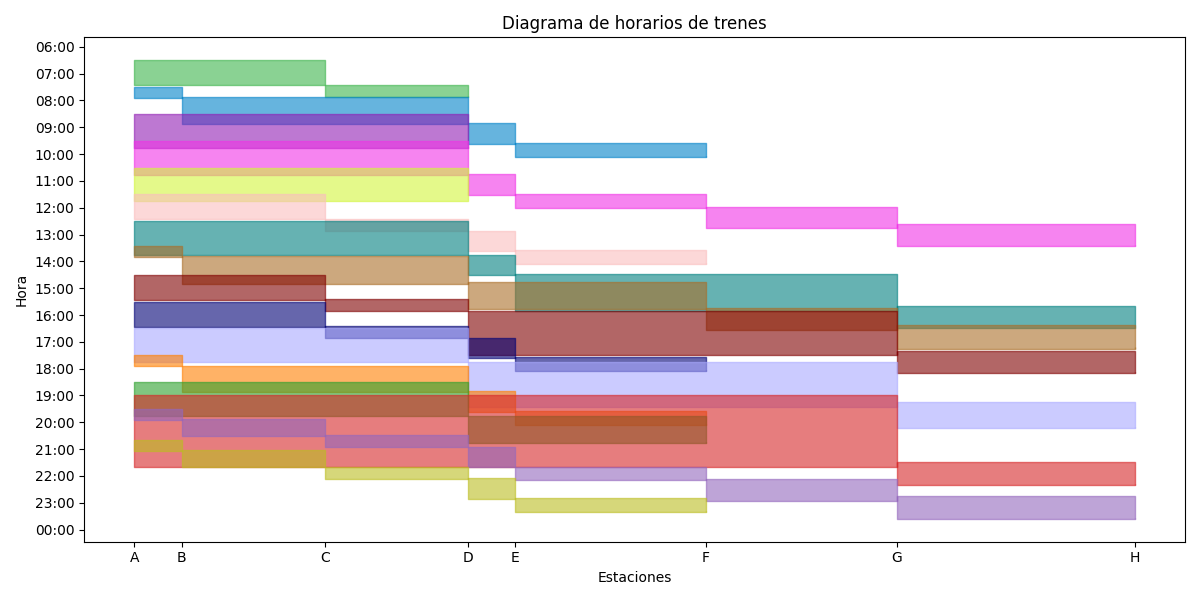
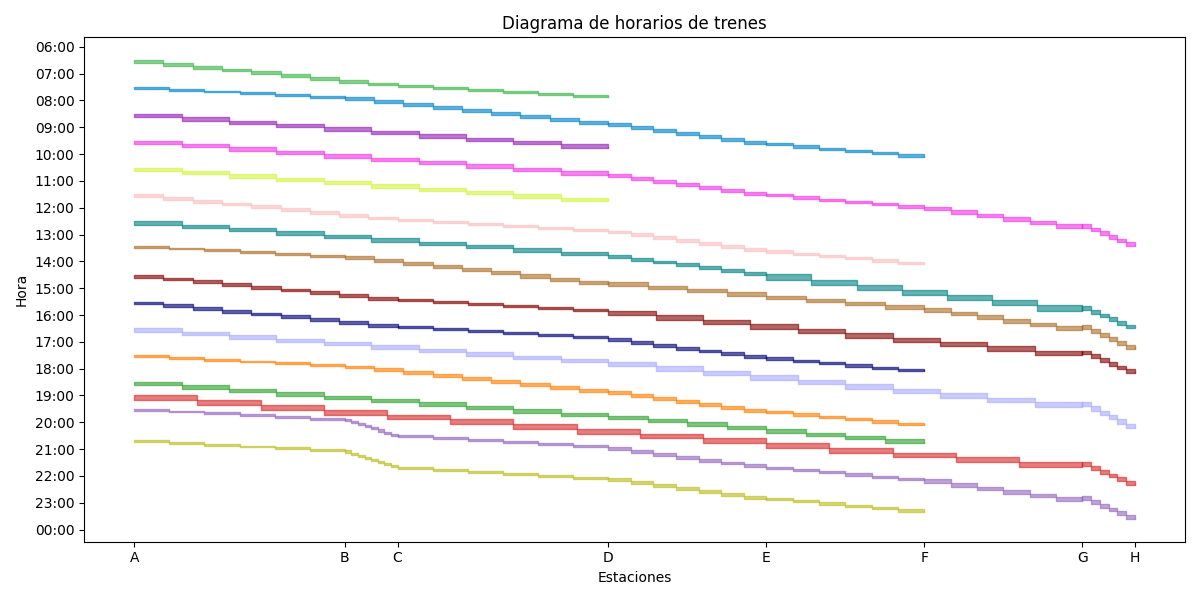
0.5c
Introduce la segmentación basada en cantones en los diagramas de horarios actualizando generateDiagram para admitir subtramos temporales por cantón. Importaciones de refactores y manejo de rutas en settings.py para un mejor acceso al módulo src. Actualiza readYamlFiles y simLibrary para utilizar las nuevas opciones de generación de diagramas. Limpia las variables no utilizadas y mejora la estructura del código en cantonCalculator y generateDiagram.

diff --git a/src/generateDiagram.py b/src/generateDiagram.py
@@ -1,124 +1,105 @@
+# generateDiagram.py
 from src import dbLibrary as dbl
 import matplotlib
-
-# Usar backend 'Agg' para generar imágenes sin entorno gráfico
 matplotlib.use('Agg')
-
 import matplotlib.pyplot as plt
 import matplotlib.dates as mdates
 from datetime import datetime
-import random as ran
 import os
+import random as ran
 
+#=== GLOBAL VARIABLES ===#
 
+#=== FUNCTIONS ===#
 def generateRandomPositions(stations, minDistance=1, maxDistance=5):
-    """
-    Asigna posiciones espaciales aleatorias (pero progresivas) a las estaciones para visualización en el gráfico.
-
-    Parameters
-    ----------
-    stations : list
-        Lista de estaciones (códigos o letras).
-    minDistance : int, optional
-        Distancia mínima entre estaciones consecutivas (default = 1).
-    maxDistance : int, optional
-        Distancia máxima entre estaciones consecutivas (default = 5).
-
-    Returns
-    -------
-    dict
-        Diccionario con la estación como clave y su posición en el eje X como valor.
-    """
     distance = {}
     position = 0
     for station in stations:
         distance[station] = position
         position += ran.randint(minDistance, maxDistance)
-
     return distance
-            
 
-def generateDiagram(outputPath="./railSim/railSimulator/static/img/diagrama.png"):
+def _split_times(t0, t1, k: int):
+    """Devuelve [t0, t1, ..., tk] dividiendo [t0, t1] en k partes iguales."""
+    try:
+        k = max(int(k), 1)
+    except:
+        k = 1
+    if k == 1 or t1 <= t0:
+        return [t0, t1]
+    delta = (t1 - t0) / k
+    return [t0 + j * delta for j in range(k + 1)]
+
+def generateDiagram(opt: int, canton_lines=None,
+                    outputPath: str = "./railSim/railSimulator/static/img/diagrama.png"):
     """
-    Genera un diagrama visual de horarios ferroviarios a partir de los datos almacenados en la base de datos.
-
-    La función lee las líneas de tren desde la base de datos, simula las estaciones si no están guardadas todas,
-    y genera un gráfico de tipo diagrama de tiempos donde el eje X representa estaciones y el eje Y las horas.
-
-    Parameters
-    ----------
-    outputPath : str, optional
-        Ruta donde se guardará el gráfico generado (default = "./railSim/railSimulator/static/img/diagrama.png").
-
-    Returns
-    -------
-    None
-        La imagen se guarda como archivo y no se retorna nada.
+    opt:
+      1 -> diagrama normal
+      2 -> diagrama con sub-tramos temporales por cantones (sin solapes dentro del tramo)
+    canton_lines: lista por línea, con nº de cantones por tramo (misma estructura que distancias).
     """
-    segments = []
     collection = dbl.selectCollection("trainLines", "TFG")
-    lines = dbl.readCollection(collection)
-    
-    # Colores para diferenciar líneas
-    colors = [
-    "#E6194B", "#3CB44B", "#FFE119", "#0082C8", "#F58231", "#911EB4",
-    "#46F0F0", "#F032E6", "#D2F53C", "#FABEBE", "#008080", "#E6BEFF",
-    "#AA6E28", "#800000", "#FFD8B1", "#000075", "#808000", "#A9A9FF",
-    "#B10DC9", "#FF7F00", "#1F77B4", "#2CA02C", "#D62728", "#9467BD", 
-    "#7F7F7F", "#BCBD22", "#17BECF", "#FF69B4", "#40E0D0", "#B22222",
-    "#228B22", "#00CED1", "#FF1493", "#C71585", "#A0522D", "#6A5ACD",
-    "#20B2AA", "#FFD700", "#8C564B", "#E377C2",
-]
+    lines = list(dbl.readCollection(collection))
 
-    # Eliminar imagen previa si existe
+    colors = [
+        "#E6194B", "#3CB44B", "#FFE119", "#0082C8", "#F58231", "#911EB4",
+        "#46F0F0", "#F032E6", "#D2F53C", "#FABEBE", "#008080", "#E6BEFF",
+        "#AA6E28", "#800000", "#FFD8B1", "#000075", "#808000", "#A9A9FF",
+        "#B10DC9", "#FF7F00", "#1F77B4", "#2CA02C", "#D62728", "#9467BD",
+        "#7F7F7F", "#BCBD22", "#17BECF", "#FF69B4", "#40E0D0", "#B22222",
+        "#228B22", "#00CED1", "#FF1493", "#C71585", "#A0522D", "#6A5ACD",
+        "#20B2AA", "#FFD700", "#8C564B", "#E377C2",
+    ]
+
     if os.path.exists(outputPath):
         os.remove(outputPath)
 
+    # 1) Construir segmentos desde la DB
+    segments = []
     all_stations = set()
-    indice = 0
-
-    # Recorrer cada línea registrada
-    for line in lines:
-        color = colors[indice % len(colors)] 
-        indice += 1
-
-        # Extraer márgenes horarios
-        departures = line["Timetable_Margins"][0]
-        arrivals = line["Timetable_Margins"][1]
-        stations = line["Stations"]
-
+    for idx, line in enumerate(lines):
+        color = colors[idx % len(colors)]
+        departures = line["Timetable_Margins"][0]  # datetimes
+        arrivals   = line["Timetable_Margins"][1]  # datetimes
+        stations   = line["Stations"]
         all_stations.update(stations)
 
         for i in range(len(departures) - 1):
-            # Segmento de desplazamiento
-            seg = {
+            segments.append({
                 "station_origin": stations[i],
                 "station_destiny": stations[i + 1],
                 "departure": departures[i],
                 "arrival": arrivals[i],
-                "color": color
-            }
-            segments.append(seg)
+                "color": color,
+                "line_index": idx,
+                "seg_index": i,
+            })
+            # parada intermedia
+            segments.append({
+                "station_origin": stations[i + 1],
+                "station_destiny": stations[i + 1],
+                "departure": arrivals[i],
+                "arrival": departures[i + 1],
+                "color": color,
+                "line_index": idx,
+                "seg_index": None,
+            })
 
-            # Segmento de parada (excepto el último tramo)
-            if i < len(departures) - 1:
-                seg_stop = {
-                    "station_origin": stations[i + 1],
-                    "station_destiny": stations[i + 1],
-                    "departure": arrivals[i],
-                    "arrival": departures[i + 1],
-                    "color": color
-                }
-                segments.append(seg_stop)
+    # 2) Inyectar número de cantones por tramo (si viene)
+    if canton_lines:
+        for seg in segments:
+            i = seg["seg_index"]
+            li = seg["line_index"]
+            if i is not None and li < len(canton_lines) and i < len(canton_lines[li]):
+                seg["cantons"] = max(int(canton_lines[li][i]), 1)
 
-    # Asignar posiciones visuales a estaciones simuladas
+    # 3) Ejes y posiciones
     stationlist = sorted(all_stations)
-    est_to_y = generateRandomPositions(stationlist, minDistance=1, maxDistance=5)
+    est_to_x = generateRandomPositions(stationlist, minDistance=1, maxDistance=5)
 
-    # Crear gráfico
     fig, ax = plt.subplots(figsize=(12, 6))
-    ax.set_xticks(list(est_to_y.values()))
-    ax.set_xticklabels(list(est_to_y.keys()))
+    ax.set_xticks(list(est_to_x.values()))
+    ax.set_xticklabels(list(est_to_x.keys()))
     ax.set_title("Diagrama de horarios de trenes")
     ax.yaxis.set_major_formatter(mdates.DateFormatter('%H:%M'))
     ax.yaxis.set_major_locator(mdates.HourLocator(interval=1))
@@ -126,15 +107,29 @@ def generateDiagram(outputPath="./railSim/railSimulator/static/img/diagrama.png"
     ax.set_xlabel("Estaciones")
     ax.invert_yaxis()
 
-    # Pintar los segmentos
+    # 4) Pintado
     for seg in segments:
-        y0 = est_to_y[seg["station_origin"]]
-        y1 = est_to_y[seg["station_destiny"]]
-        x0 = seg["departure"]
-        x1 = seg["arrival"]
-        ax.fill_between([y0, y1], x0, x1, color=seg["color"], alpha=0.6)
+        x0 = est_to_x[seg["station_origin"]]
+        x1 = est_to_x[seg["station_destiny"]]
+        t0 = seg["departure"]
+        t1 = seg["arrival"]
+
+        if opt == 2 and seg.get("seg_index") is not None:
+            # nuevo comportamiento: dividir el tramo en k sub-tramos temporales
+            k = int(seg.get("cantons", 1))
+            times = _split_times(t0, t1, k)  # [t0..tk]
+            if k <= 1 or x1 == x0 or t1 <= t0:
+                ax.fill_between([x0, x1], t0, t1, color=seg["color"], alpha=0.6)
+            else:
+                dx = (x1 - x0) / k
+                for j in range(k):
+                    xl = x0 + j * dx
+                    xr = x0 + (j + 1) * dx
+                    ax.fill_between([xl, xr], times[j], times[j + 1], color=seg["color"], alpha=0.6)
+        else:
+            # modo normal
+            ax.fill_between([x0, x1], t0, t1, color=seg["color"], alpha=0.6)
 
     plt.tight_layout()
     plt.savefig(outputPath)
     plt.close()
-    print(f"Diagrama guardado como {outputPath}")

diff --git a/src/cantonCalculator.py b/src/cantonCalculator.py
@@ -3,7 +3,7 @@ from robin.supply.entities import Supply
 import src.dbLibrary as dbl
 
 #=== GLOBAL VARIABLES ===#
-name = "C:/Users/alber/Desktop/supply_data.yaml"
+
 
 #=== FUNCTIONS ===#
 def getStationData(name:str) -> dict:
@@ -19,7 +19,7 @@ def getDistanceData(data:tuple) -> float:
 
     return processedStationData
 
-def getUsedStationsID() -> list:
+def getDistances(name:str) -> list:
     collection = dbl.readCollection(dbl.selectCollection("trainLines", "TFG"))
     stationData = getDistanceData(getStationData(name))
     distances = []
@@ -49,4 +49,16 @@ def getUsedStationsID() -> list:
 
     return distanceLines
 
-print(getUsedStationsID())
+def cantonDivider(distances:list):
+    longitude = 50
+    distancesLines = []
+    cantons = []
+    for line in distances:
+        for dist in line:
+            cantons.append(int((dist//longitude) + 5))
+        
+        distancesLines.append(cantons)
+        cantons = []
+
+    return distancesLines
+

diff --git a/src/readYamlFiles.py b/src/readYamlFiles.py
@@ -2,11 +2,11 @@ import yaml as yml
 import src.dbLibrary as dbl
 import src.generateDiagram as gd
 from robin.supply.entities import Supply
+import src.cantonCalculator as cc
 from datetime import timedelta, datetime
 
 
 #=== GLOBAL VARIABLES ===#
-name = "C:/Users/alber/Desktop/supply_data.yaml"
 
 #=== FUNCTIONS ===#
 def getSimplifiedStation(station:str, stations:list, dictStationsWork:dict, stationsId:list):
@@ -66,5 +66,9 @@ def importData(name:str) -> None:
         departures = []
         arrivals = []
 
-    gd.generateDiagram()
+    distances_lines = cc.getDistances(name)                 # usa el YAML recién subido
+    canton_lines = cc.cantonDivider(distances_lines)        # cantones por tramo
+    gd.generateDiagram(2, canton_lines)                     # pásalo al diagrama
+
+    
 

diff --git a/railSim/railSim/settings.py b/railSim/railSim/settings.py
@@ -11,10 +11,18 @@ https://docs.djangoproject.com/en/5.2/ref/settings/
 """
 
 from pathlib import Path
+import sys
 import os
 
-# Build paths inside the project like this: BASE_DIR / 'subdir'.
-BASE_DIR = Path(__file__).resolve().parent.parent
+BASE_DIR = Path(__file__).resolve().parent.parent  # -> TFG/railSIm
+PROJECT_ROOT = BASE_DIR.parent                     # -> TFG
+SRC_DIR = PROJECT_ROOT / "src"
+
+# Para poder hacer: from src import simLibrary
+if SRC_DIR.exists():
+    # Ojo: hay que insertar el PADRE de 'src' (TFG)
+    sys.path.insert(0, str(PROJECT_ROOT))
+
 
 
 # Quick-start development settings - unsuitable for production

diff --git a/src/simLibrary.py b/src/simLibrary.py
@@ -216,7 +216,7 @@ def generateTimetable(limits: tuple, trip: tuple):
         valid_lines.append(current_line)
         valid_timeTables.append(current_timeTable)
 
-    gd.generateDiagram()
+    gd.generateDiagram(1, [])
 
 
 
